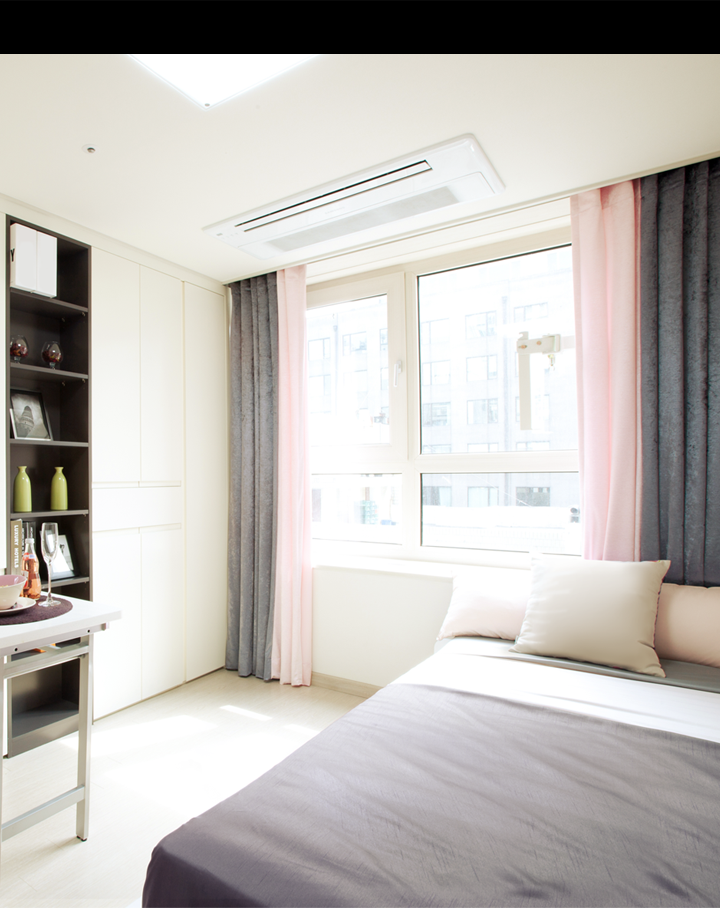
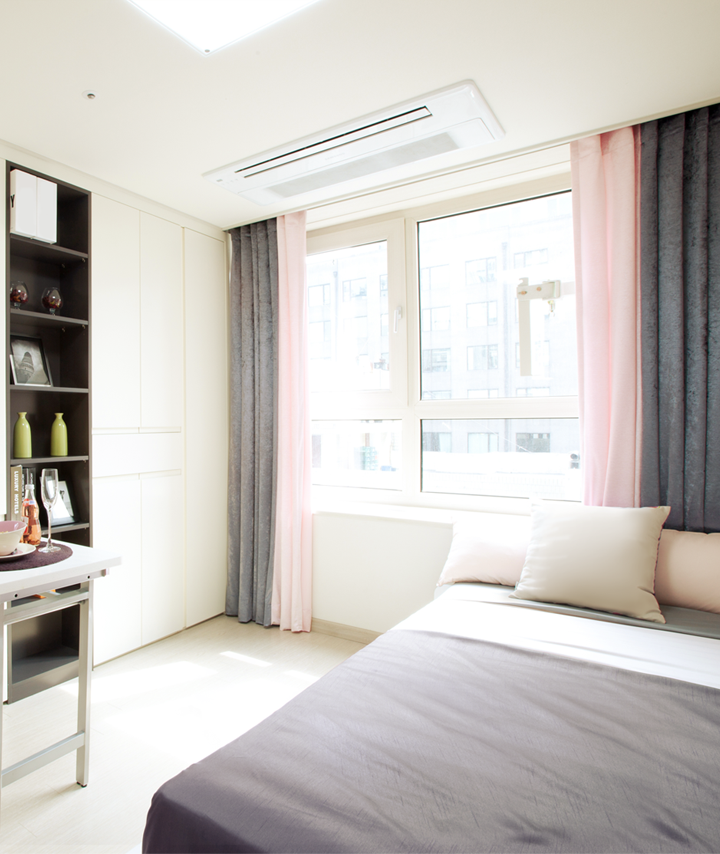
try to use flex layout

diff --git a/zigbang.html b/zigbang.html
@@ -22,30 +22,71 @@ An AMP HTML tutorial - learn the different building blocks of an AMP HTML file. 
     CSS must be embedded inline.
   -->
   <style amp-custom>
-    h1 {
+    body {
+      background-color: #f6f6f6
+    }
+    h1, h3 {
       color: white;
+    }
+    #btnBack {
+      font-size: 32px;
+      font-weight: lighter;
+      margin:0
+    }
+    #btnSafeProxy {
+      font-size: 22px;
+      font-weight: medium
     }
 
     nav {
       background-color: #ffa409;
-      min-height: 112
+      min-height: 112;
+      display: flex;
+      align-items: center;
+      justify-content: start;
     }
 
     .title{
-      width: 60%;
-      display: inline-block;
+
+      flex:3
     }
 
-    .header {
+    .headerBack {
       padding: 1em;
-      display: flex;
-      
+      flex: 1;
 
+    }
+    .headerShareAndLike {
+      flex:2
     }
     .pic {
       position: relative;
-      top: -32px;
+
       z-index: -1
+    }
+    .safeProxy {
+      display: flex;
+      background-color: #0ec4bf
+    }
+    .contentsWrapper {
+      padding: 0 20px 0 20px
+    }
+    .houseDetailsCard {
+      display: flex;
+      flex-direction: column;
+    }
+    .houseDetailsCard > h1 {
+      color: black;
+      font-weight: bold;
+      margin: 0;
+      padding: 24px 0 24px 15px
+    }
+    .houseDetailsTable {
+      border-width: 2px;
+      border-style:solid;
+      border-color: #e1e1e1;
+      display:flex;
+      flex-direction: column;
     }
   </style>
   <!--
@@ -61,21 +102,44 @@ An AMP HTML tutorial - learn the different building blocks of an AMP HTML file. 
   -->
 
   <nav >
-    <div class="header">
+    <div class="headerBack">
       <amp-img  src="./img/ic_back.png" width="32" height="32"  ></amp-img>
     <div class="title">
-      <h1>서울시 강남구 신상동</h1>
+      <h1 id="btnBack">서울시 강남구 신상동</h1>
     </div>
-    <amp-img src="./img/ic_share.png" width="32" height="32"></amp-img>
+    <div>
+      <amp-img src="./img/ic_share.png" width="32" height="32"></amp-img>
     <amp-img src="./img/ic_like_normal.png" width="32" height="32"></amp-img>
+    </div>
+    
     </div>
   </nav>
 
   <main>
-    <div class="pic" >
+    <section class="pic" >
       <amp-img src="./img/Layer 1411.png" width="720" height="908" layout="responsive"></amp-img>
-    </div>
-    
+    </section>
+    <section class="safeProxy">
+      <amp-img src="./img/Vector Smart Object.png" width="178" height="53" ></amp-img>
+      <h1 id="btnSafeProxy">가 등록한 방입니다.</h3>
+      <amp-img src="./img/ic_help_black_24dp.png" width="40" height="40"></amp-img>
+    </section>
+    <section class="contentsWrapper">
+      <div class="houseDetailsCard">
+        <h1>신사동 예쁜 쓰리룸</h1>
+        <div class="houseDetailsTable">
+          <div>other thing 1</div>
+          <div>other thing 2</div>
+          <div>
+            other thing 3
+          </div>
+
+        </div>
+
+      </div>
+    </section>
+
+
   </main>
   
   
